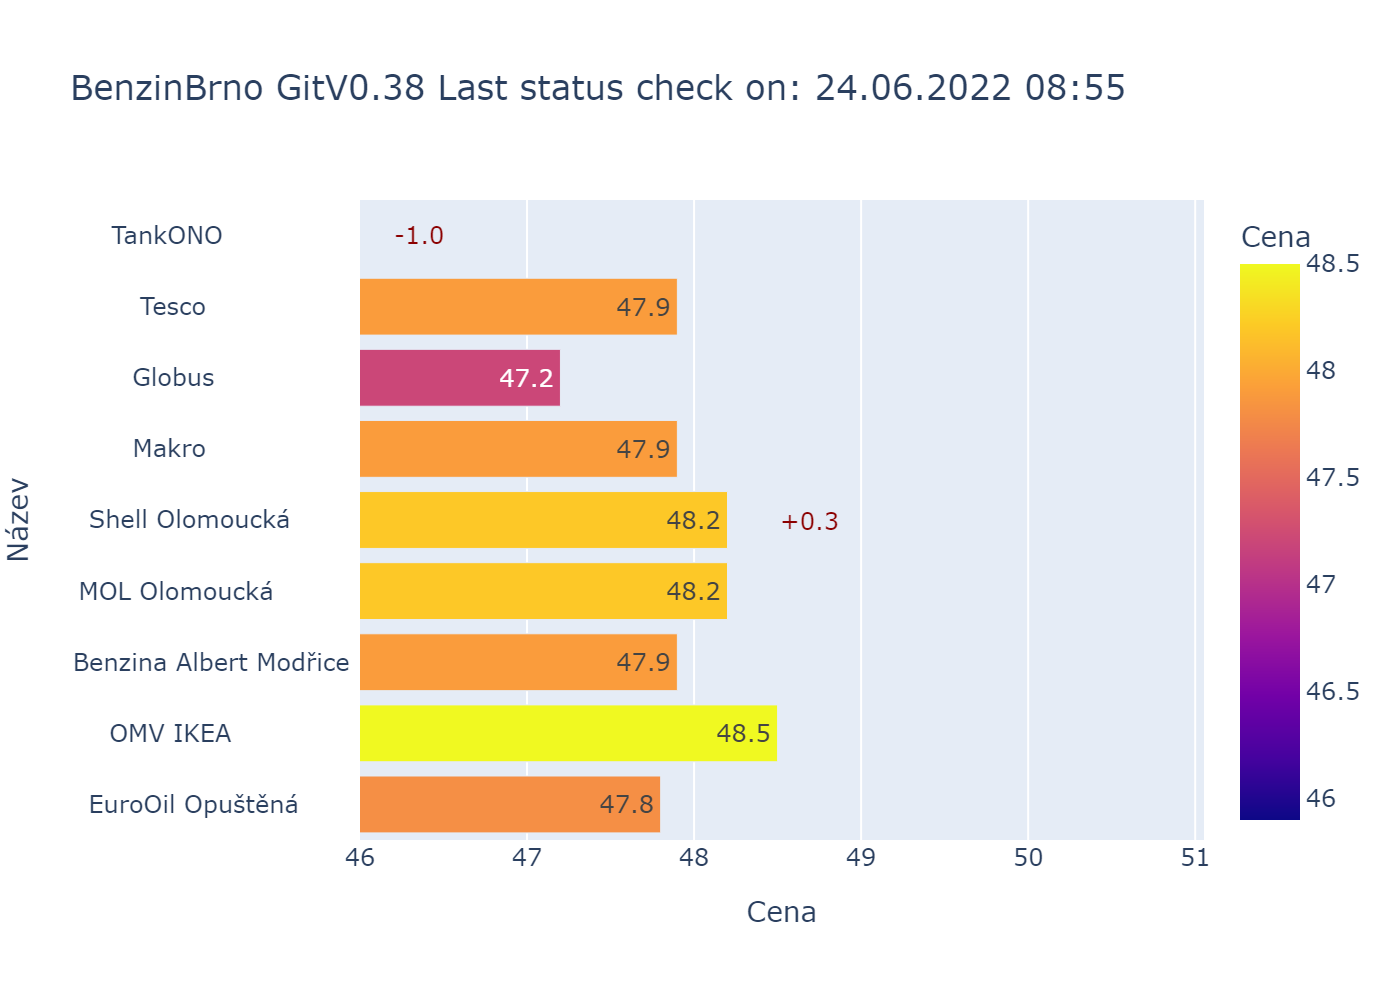
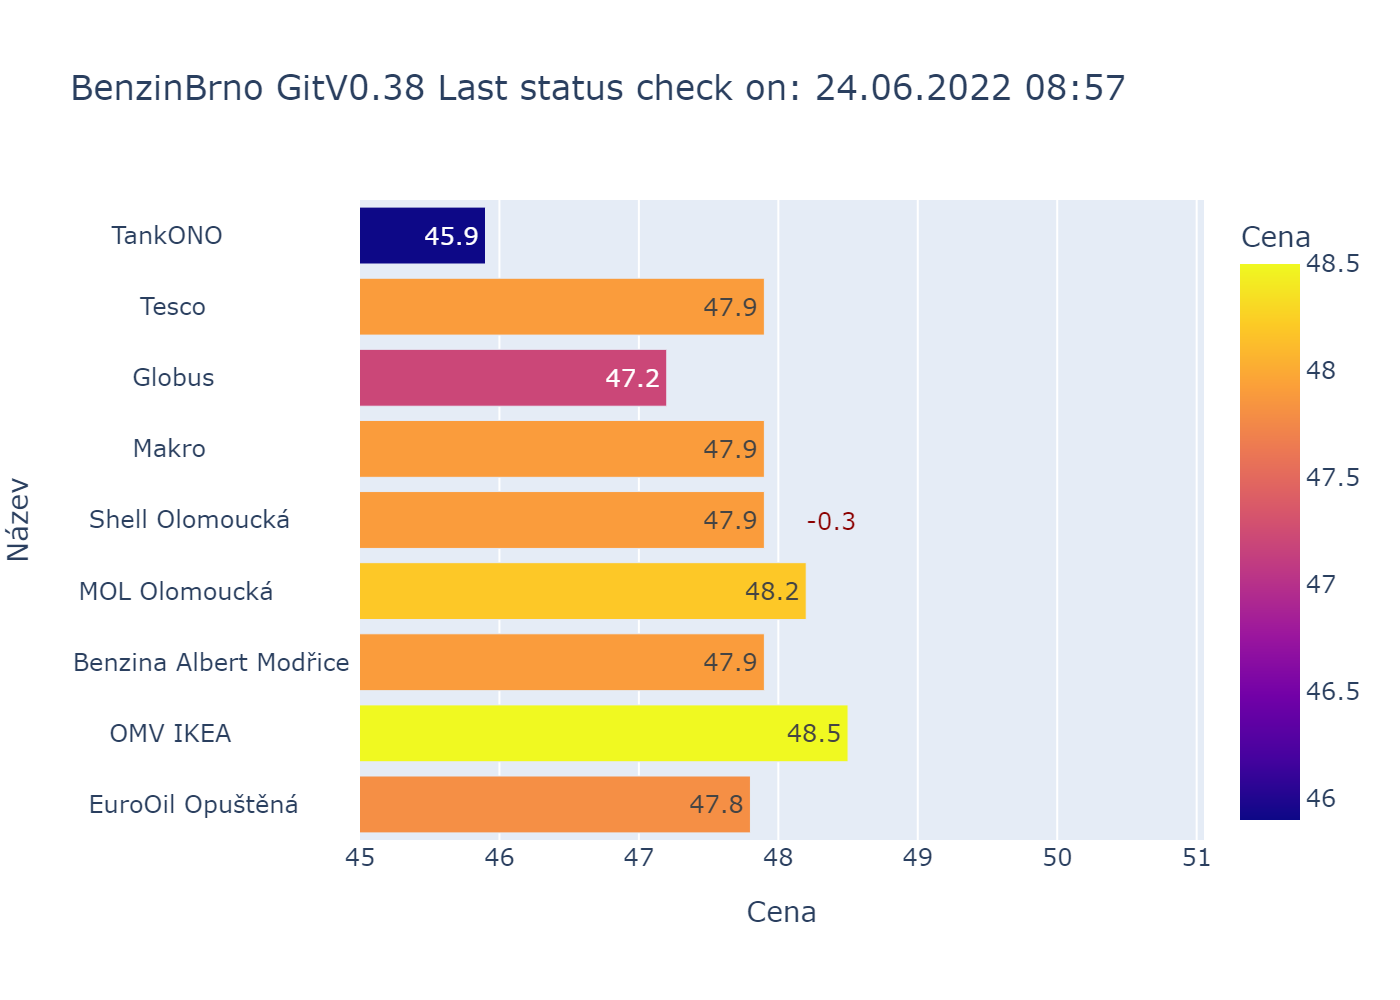
Win cmd line

diff --git a/bbCFG.py b/bbCFG.py
@@ -31,7 +31,7 @@ bbDateLog = "%d.%m.%Y--%H:%M"  # format casu
 # Formatovani Ceny (float) - Cena = '{:.2f}'.format(item)
 bbCenaMsk = '{:.2f}'  # format na 2 desetinna mista
 # Graf
-bbCenaMin = 46  # mdolni mez ceny na ose X v grafu
+bbCenaMin = 45  # mdolni mez ceny na ose X v grafu
 
 # brint - my print, pomoci *ssAll
 def brint(*ssAll):
